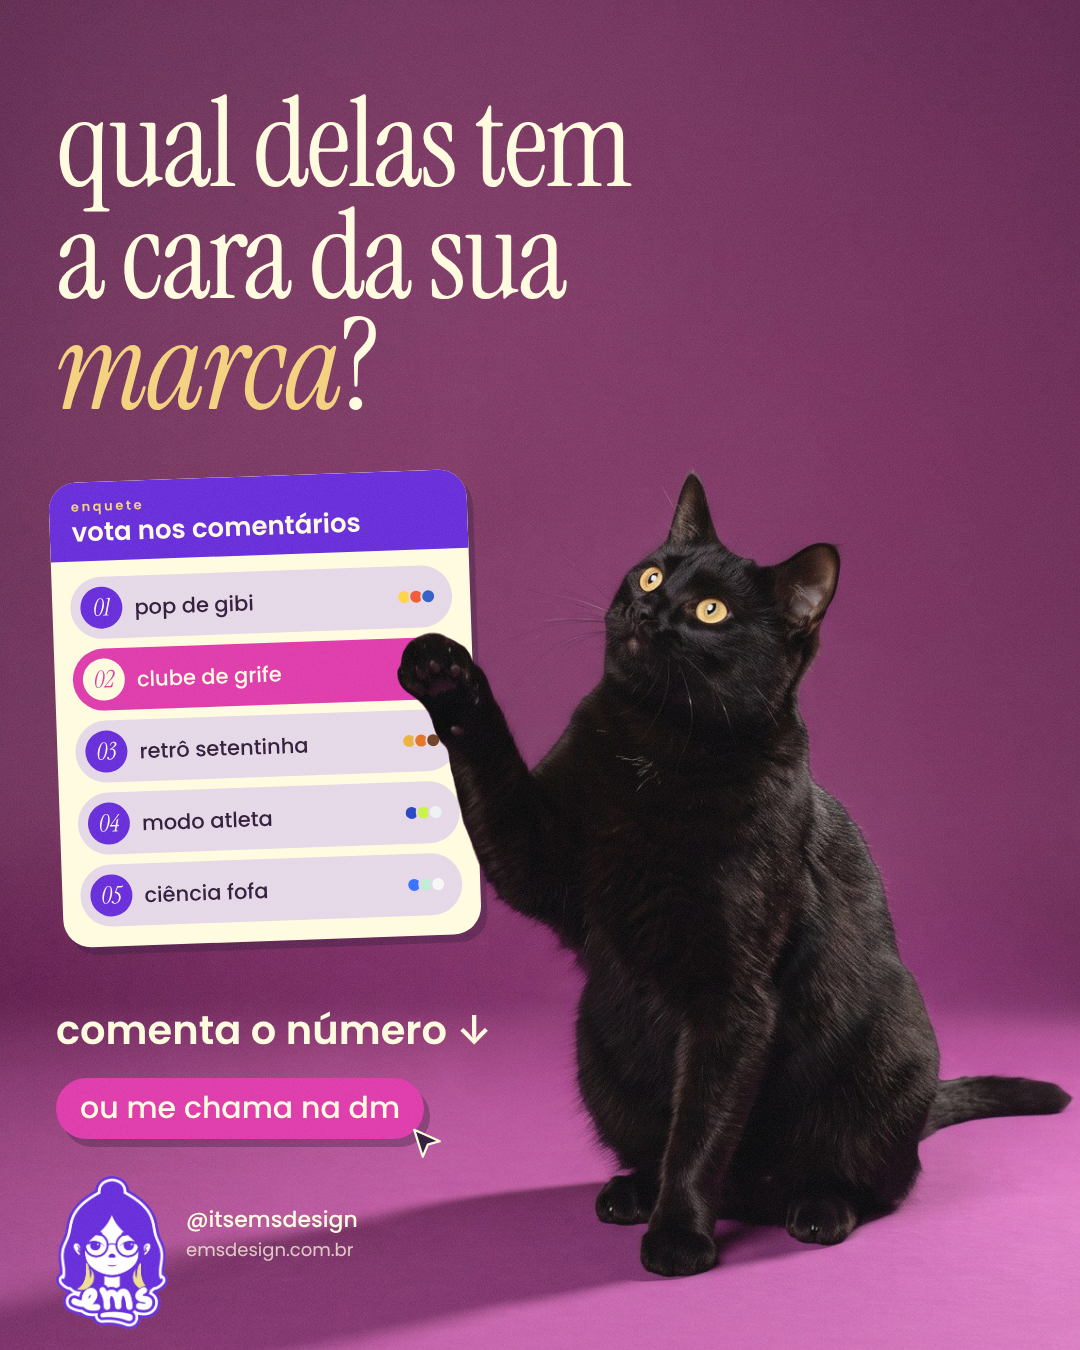
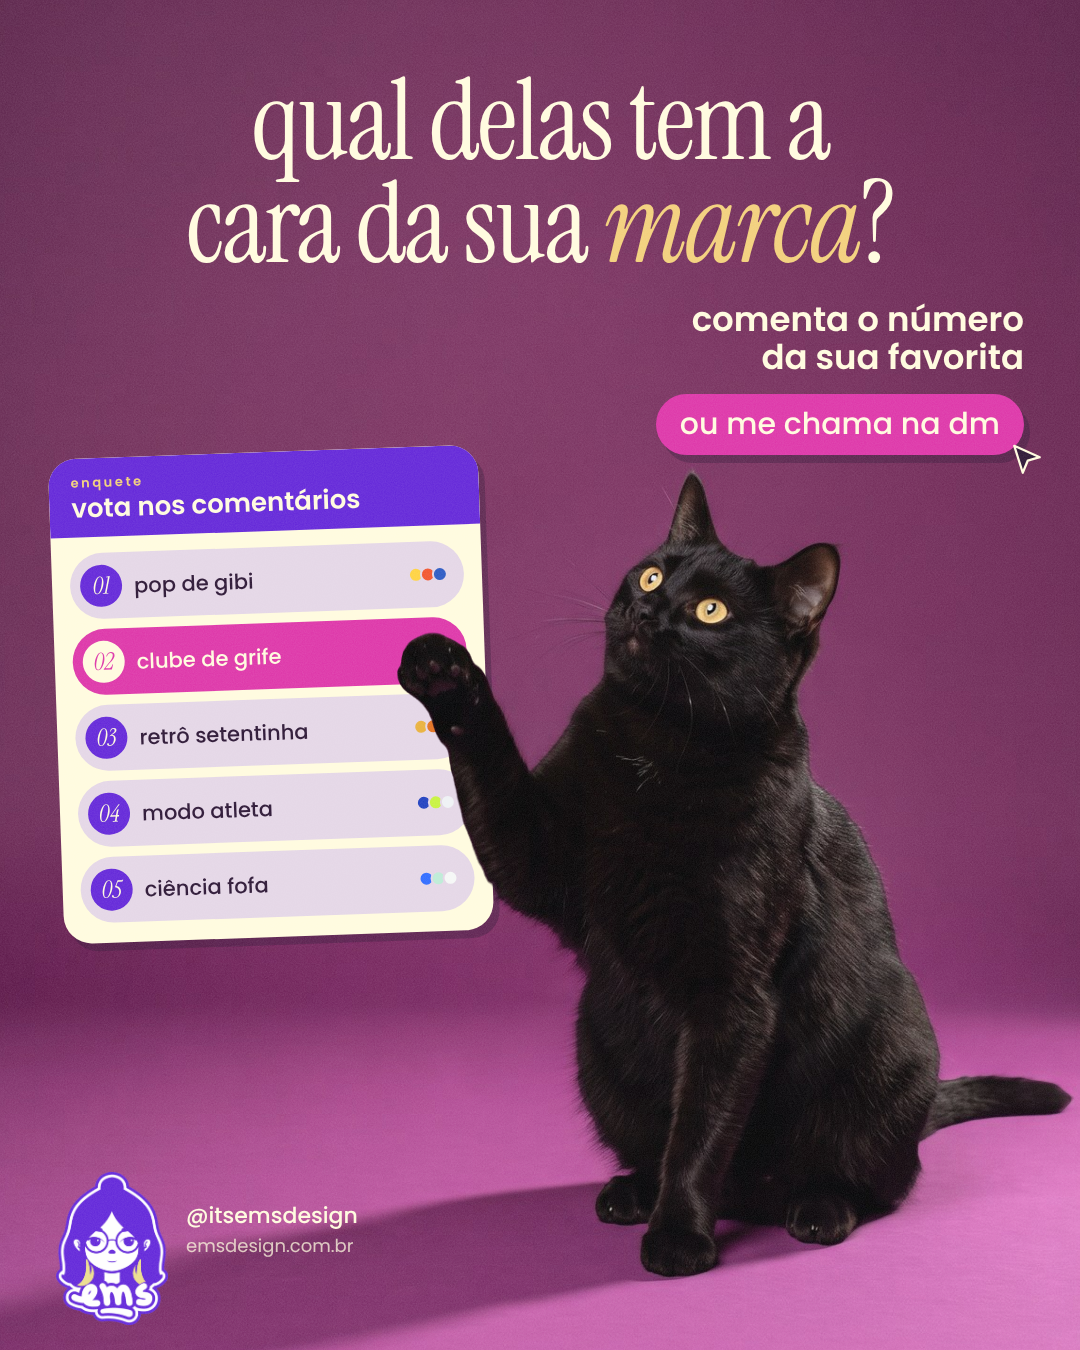
EMS carrossel pet: capa sem spoiler e título em bloco; chamada equilibrada
- capa: sai a lista das 5 direções (spoiler); "criativas pra marcas pet"
  colado no nome da revista; chamada "5 universos pra sua marca pet sair
  do óbvio"
- chamada: título centralizado, enquete à esquerda, comenta/dm à direita
  acima do gato (antes todo o texto empilhado num lado só)
- ems.md: capa não dá spoiler, título em bloco, composição equilibrada

Claude-Session: https://claude.ai/code/session_01CmCiK9WG5RWJH1hBNUU9U9

Changed region(s): [[0.0306, 0.0622, 0.9778, 0.7156], [0.0306, 0.7467, 0.4583, 0.9956]]

diff --git a/Emi/ems-5-direcoes-pet/projeto/estilo.css b/Emi/ems-5-direcoes-pet/projeto/estilo.css
@@ -125,18 +125,13 @@ img.foto { position: absolute; display: block; }
 .capa .meta { position: absolute; left: 56px; right: 56px; top: 30px; z-index: 8; display: flex; justify-content: space-between;
   font: 500 17px/1 var(--sans); letter-spacing: .16em; color: var(--ivory); }
 .capa .masthead { position: absolute; left: 34px; top: 22px; z-index: 4; font: 400 318px/1 var(--serif); letter-spacing: -.045em; color: var(--ivory); }
-.capa .sub { position: absolute; left: 58px; top: 372px; z-index: 8; font: 400 58px/.92 var(--serif); letter-spacing: -.01em; color: var(--ivory); }
-.capa .sub em { color: var(--manteiga); font-size: 92px; }
+.capa .sub { position: absolute; left: 60px; top: 292px; z-index: 8; font: 400 54px/.95 var(--serif); letter-spacing: -.01em; color: var(--ivory); }
+.capa .sub em { color: var(--manteiga); }
 .capa .selo-redondo { position: absolute; left: 800px; top: 424px; z-index: 8; width: 224px; height: 224px; border-radius: 50%;
   background: var(--pink); display: grid; place-items: center; text-align: center; transform: rotate(9deg); box-shadow: var(--shadow-sticker); }
 .capa .selo-redondo span { font: 600 25px/1.12 var(--sans); color: var(--ivory); }
-.capa .chamadas { position: absolute; left: 58px; top: 756px; width: 300px; z-index: 8; color: var(--ivory); }
-.capa .chamadas .rot { font: 600 15px/1 var(--sans); letter-spacing: .18em; color: var(--manteiga); margin-bottom: 14px; }
-.capa .chamadas .item { display: flex; gap: 14px; align-items: flex-start; padding: 12px 0; border-top: 1px solid rgba(255, 251, 222, .3); }
-.capa .chamadas .n { font: italic 400 38px/.9 var(--serif); color: var(--manteiga); width: 40px; }
-.capa .chamadas .tx { display: flex; flex-direction: column; gap: 4px; }
-.capa .chamadas b { font: 600 24px/1.05 var(--sans); }
-.capa .chamadas small { font: 400 16px/1.1 var(--sans); opacity: .8; }
+.capa .teaser { position: absolute; left: 58px; top: 1046px; z-index: 8; font: 400 64px/.94 var(--serif); letter-spacing: -.015em; color: var(--ivory); }
+.capa .teaser em { color: var(--manteiga); }
 .capa .arrasta { position: absolute; left: 58px; top: 1274px; z-index: 8; font: 500 20px/1 var(--sans); letter-spacing: .04em; color: var(--ivory); }
 .capa .barras { position: absolute; left: 846px; top: 1178px; z-index: 8; width: 180px; height: 120px; background: #fff; padding: 12px 14px 0; }
 .capa .barras .b { height: 70px; background: repeating-linear-gradient(90deg, #111 0 3px, transparent 3px 5px, #111 5px 6px, transparent 6px 9px, #111 9px 13px, transparent 13px 15px, #111 15px 16px, transparent 16px 20px); }
@@ -145,14 +140,14 @@ img.foto { position: absolute; display: block; }
 /* ---------- chamada: enquete ---------- */
 .chamada { background: var(--plum); }
 .chamada img.recorte { z-index: 9; }
-.chamada .grande { position: absolute; left: 56px; top: 88px; z-index: 8; font: 400 124px/.9 var(--serif); letter-spacing: -.02em; color: var(--ivory); }
+.chamada .grande { position: absolute; left: 0; right: 0; top: 70px; z-index: 8; text-align: center; font: 400 112px/.92 var(--serif); letter-spacing: -.02em; color: var(--ivory); }
 .chamada .grande em { color: var(--manteiga); }
-.chamada .enquete { position: absolute; left: 56px; top: 476px; width: 418px; z-index: 8; background: var(--ivory); border-radius: 28px;
+.chamada .enquete { position: absolute; left: 56px; top: 452px; width: 430px; z-index: 8; background: var(--ivory); border-radius: 28px;
   padding: 0 18px 20px; box-shadow: var(--shadow-sticker); transform: rotate(-2deg); overflow: hidden; }
 .chamada .enquete .topo { margin: 0 -18px 16px; padding: 18px 22px 16px; background: var(--violeta); color: var(--ivory); display: flex; flex-direction: column; gap: 6px; }
 .chamada .enquete .topo span { font: 600 13px/1 var(--sans); letter-spacing: .2em; color: var(--manteiga); }
 .chamada .enquete .topo b { font: 600 26px/1 var(--sans); }
-.chamada .enquete .op { display: flex; align-items: center; gap: 12px; height: 62px; padding: 0 16px 0 10px; margin-top: 10px; border-radius: 999px; background: var(--lavanda-2); color: var(--tinta); }
+.chamada .enquete .op { display: flex; align-items: center; gap: 12px; height: 66px; padding: 0 16px 0 10px; margin-top: 10px; border-radius: 999px; background: var(--lavanda-2); color: var(--tinta); }
 .chamada .enquete .op .n { width: 42px; height: 42px; border-radius: 50%; background: var(--violeta); color: var(--ivory); display: grid; place-items: center; font: italic 400 24px/1 var(--serif); }
 .chamada .enquete .op .nm { flex: 1; font: 500 21px/1 var(--sans); }
 .chamada .enquete .op .pts { display: flex; }
@@ -160,11 +155,12 @@ img.foto { position: absolute; display: block; }
 .chamada .enquete .op.marcada { background: var(--pink); color: var(--ivory); }
 .chamada .enquete .op.marcada .n { background: var(--ivory); color: var(--pink); }
 .chamada .enquete .op.marcada .pts i { border-color: var(--pink); }
-.chamada .comenta { position: absolute; left: 56px; top: 1010px; z-index: 8; font: 600 40px/1 var(--sans); color: var(--ivory); }
-.chamada .dm { position: absolute; left: 56px; top: 1078px; z-index: 8; font: 500 30px/1 var(--sans); padding: 15px 24px 16px; border-radius: 999px;
+.chamada .direita { position: absolute; right: 56px; top: 300px; z-index: 8; display: flex; flex-direction: column; align-items: flex-end; gap: 18px; text-align: right; }
+.chamada .comenta { font: 600 34px/1.12 var(--sans); color: var(--ivory); }
+.chamada .dm { position: relative; z-index: 8; font: 500 30px/1 var(--sans); padding: 15px 24px 16px; border-radius: 999px;
   background: var(--pink); color: var(--ivory); box-shadow: var(--shadow-sticker); }
 .chamada .dm svg { position: absolute; right: -20px; bottom: -22px; width: 34px; height: 34px; }
 .chamada .dm svg path { fill: var(--tinta); stroke: var(--ivory); stroke-width: 1.6; stroke-linejoin: round; }
-.chamada .selo { position: absolute; left: 56px; top: 1176px; width: 112px; z-index: 8; }
-.chamada .assina { position: absolute; left: 186px; top: 1206px; z-index: 8; font: 500 22px/1.3 var(--sans); color: var(--ivory); }
+.chamada .selo { position: absolute; left: 56px; top: 1172px; width: 112px; z-index: 8; }
+.chamada .assina { position: absolute; left: 186px; top: 1202px; z-index: 8; font: 500 22px/1.3 var(--sans); color: var(--ivory); }
 .chamada .assina span { font-weight: 400; font-size: 18px; opacity: .75; }

diff --git a/Emi/ems-5-direcoes-pet/projeto/carrossel.html b/Emi/ems-5-direcoes-pet/projeto/carrossel.html
@@ -148,10 +148,9 @@ function capa() {
     <div class="masthead">direções</div>`);
   cheia(s, { ...CAPA.foto, src: CAPA.recorte, ext: 'png', classe: 'recorte' }, W, H);
   s.insertAdjacentHTML('beforeend', `
-    <div class="sub">criativas<br>pra marcas<br><em>pet</em></div>
+    <div class="sub">criativas<br>pra marcas <em>pet</em></div>
     <div class="selo-redondo"><span>nenhuma<br>é patinha<br>+ osso</span></div>
-    <div class="chamadas"><div class="rot">nesta edição</div>${DIRECOES.map((d, i) =>
-      `<div class="item"><span class="n">${num(i + 1)}</span><span class="tx"><b>${d.titulo.replace(/<\/?em>/g, '')}</b><small>${d.pra}</small></span></div>`).join('')}</div>
+    <div class="teaser">5 universos pra<br>sua marca pet<br>sair do <em>óbvio</em></div>
     <div class="arrasta">↳ arrasta pra folhear</div>
     <div class="barras"><div class="b"></div><span>@itsemsdesign</span></div>`);
   s.appendChild(el('div', 'grain claro'));
@@ -164,7 +163,7 @@ function chamada() {
   const s = el('section', 'slide chamada'); s.dataset.nome = 'lamina-07';
   cheia(s, CHAMADA.foto, W, H);
   s.insertAdjacentHTML('beforeend', `
-    <div class="grande">qual delas tem<br>a cara da sua<br><em>marca</em>?</div>
+    <div class="grande">qual delas tem a<br>cara da sua <em>marca</em>?</div>
     <div class="enquete">
       <div class="topo"><span>enquete</span><b>vota nos comentários</b></div>
       ${DIRECOES.map((d, i) => `<div class="op${i === CHAMADA.marcada ? ' marcada' : ''}"><span class="n">${num(i + 1)}</span><span class="nm">${d.titulo.replace(/<\/?em>/g, '')}</span>
@@ -172,8 +171,8 @@ function chamada() {
     </div>`);
   cheia(s, { ...CHAMADA.foto, src: CHAMADA.recorte, ext: 'png', classe: 'recorte' }, W, H);
   s.insertAdjacentHTML('beforeend', `
-    <div class="comenta">comenta o número ↓</div>
-    <div class="dm">ou me chama na dm${CURSOR}</div>
+    <div class="direita"><div class="comenta">comenta o número<br>da sua favorita</div>
+      <div class="dm">ou me chama na dm${CURSOR}</div></div>
     <img class="selo" src="img/selo-ems.png" alt="selo ems">
     <div class="assina">@itsemsdesign<br><span>emsdesign.com.br</span></div>`);
   s.appendChild(el('div', 'grain claro'));

diff --git a/Emi/ems-5-direcoes-pet/README.md b/Emi/ems-5-direcoes-pet/README.md
@@ -37,13 +37,13 @@ Respiro `ivory` de 18px, raio 22, sangria de 30px em quem encosta na borda. Coor
 
 | # | Lâmina | Cor do cartão | Fotos (destaque · quadrada · alta) | Marca fictícia · fonte |
 |---|---|---|---|---|
-| 1 | Capa de revista: nome "direções" atrás da cabeça do gato (recorte da mesma foto por cima), "criativas pra marcas *pet*", chamadas das 5 direções, selo "nenhuma é patinha + osso", código de barras com o @ | fundo violeta da foto | capa-2 (+ recorte) | — |
+| 1 | Capa de revista: nome "direções" atrás da cabeça do gato (recorte da mesma foto por cima), "criativas pra marcas *pet*" colado embaixo, chamada "5 universos pra sua marca pet sair do *óbvio*" (sem spoiler das direções), selo "nenhuma é patinha + osso", código de barras com o @ | fundo violeta da foto | capa-2 (+ recorte) | — |
 | 2 | 01 pop de *gibi* | `violeta` | vira-lata pulando · corgi e petisco · osso, bola e pote | AU! petiscaria · Bagel Fat One |
 | 3 | 02 clube de *grife* | `plum` | whippet de suéter · bolsa de couro · tricô com plaquinha MC | Maison Caramelo · Bodoni Moda |
 | 4 | 03 retrô *setentinha* | `wine` | lhasa no tapete · pote e margarida · poodle no secador | pelo solto · Shrikhand |
 | 5 | 04 modo *atleta* | `creative-purple` | border collie e frisbee · peitoral na pista · corredor e vizsla | AU running club · Graduate |
 | 6 | 05 ciência *fofa* | `ameixa` | gato tigrado · frascos e ração · filhote no veterinário | miau.lab · Space Mono |
-| 7 | Chamada em enquete: "qual delas tem a cara da sua *marca*?", cartão de enquete com as 5 opções, o gato apertando uma com a pata (recorte por cima do cartão), "comenta o número", dm, selo | fundo ameixa da foto | cham-2 (+ recorte) | — |
+| 7 | Chamada em enquete: "qual delas tem a cara da sua *marca*?" centralizado, cartão de enquete à esquerda com o gato apertando uma opção com a pata (recorte por cima do cartão), "comenta o número da sua favorita" e dm à direita, assinatura embaixo | fundo ameixa da foto | cham-2 (+ recorte) | — |
 
 Legenda pronta em `legenda.md`.
 

diff --git a/.claude/skills/artes-clientes/clientes/ems.md b/.claude/skills/artes-clientes/clientes/ems.md
@@ -30,11 +30,14 @@
 - **Foto não se repete no carrossel**, e variações da mesma cena contam como repetição. Por direção, 3 cenas diferentes: o bicho, o produto e uma cena extra (outro bicho, detalhe de material ou bastidor).
 - **Capa** (v5): capa de revista.
   - Nome "direções" em Instrument Serif gigante atrás da cabeça do gato: recorte da mesma foto, alinhado, por cima do texto.
-  - "criativas pra marcas *pet*", chamadas "nesta edição" com as 5 direções, selo redondo `pink` "nenhuma é patinha + osso" e código de barras com o @.
+  - "criativas pra marcas *pet*" colado embaixo do nome, formando um bloco só. A Emi reclamou de "muito espaçamento entre o título".
+  - Chamada de capa que não entrega o conteúdo: "5 universos pra sua marca pet sair do *óbvio*". **Capa não dá spoiler**: a lista das 5 direções foi reprovada ("qual sentido de dar spoiler no que tá vindo?").
+  - Selo redondo `pink` "nenhuma é patinha + osso" e código de barras com o @.
   - A v4 foi reprovada por diagramação: seleção do Figma fora do rosto do gato, anotação "diretoria criativa" (cópia) e "5" gigante + pílula (estrutura da referência).
 - **Chamada** (v5): enquete.
   - "qual delas tem a cara da sua *marca*?" e cartão de enquete com as 5 opções.
-  - O gato levanta a pata e "aperta" uma opção (recorte por cima do cartão); depois "comenta o número", dm e selo.
+  - O gato levanta a pata e "aperta" uma opção (recorte por cima do cartão).
+  - **Composição equilibrada**: título centralizado em cima, cartão à esquerda, "comenta o número da sua favorita" e a dm à direita acima do gato, assinatura embaixo à esquerda. A Emi reprovou "texto empilhado de um lado só".
   - A v4, com texto + gato + pílula, foi reprovada: "muito xoxo, sem graça".
 - **Regra da Emi: "os posts precisam ser diferentes, senão eu postava a mesma coisa todo dia".**
   - Cada post do Instagram da EMS tem diagramação própria.
